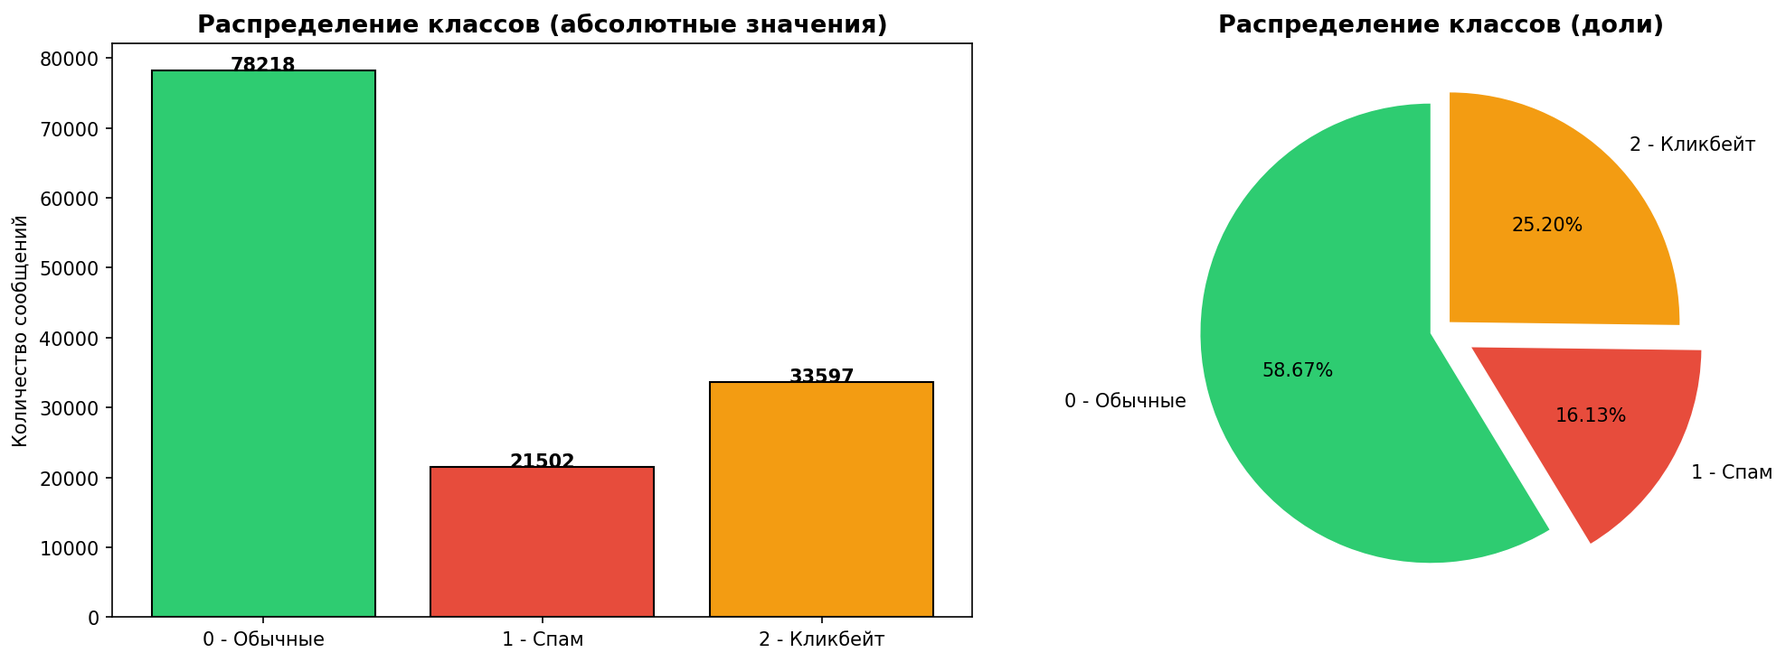
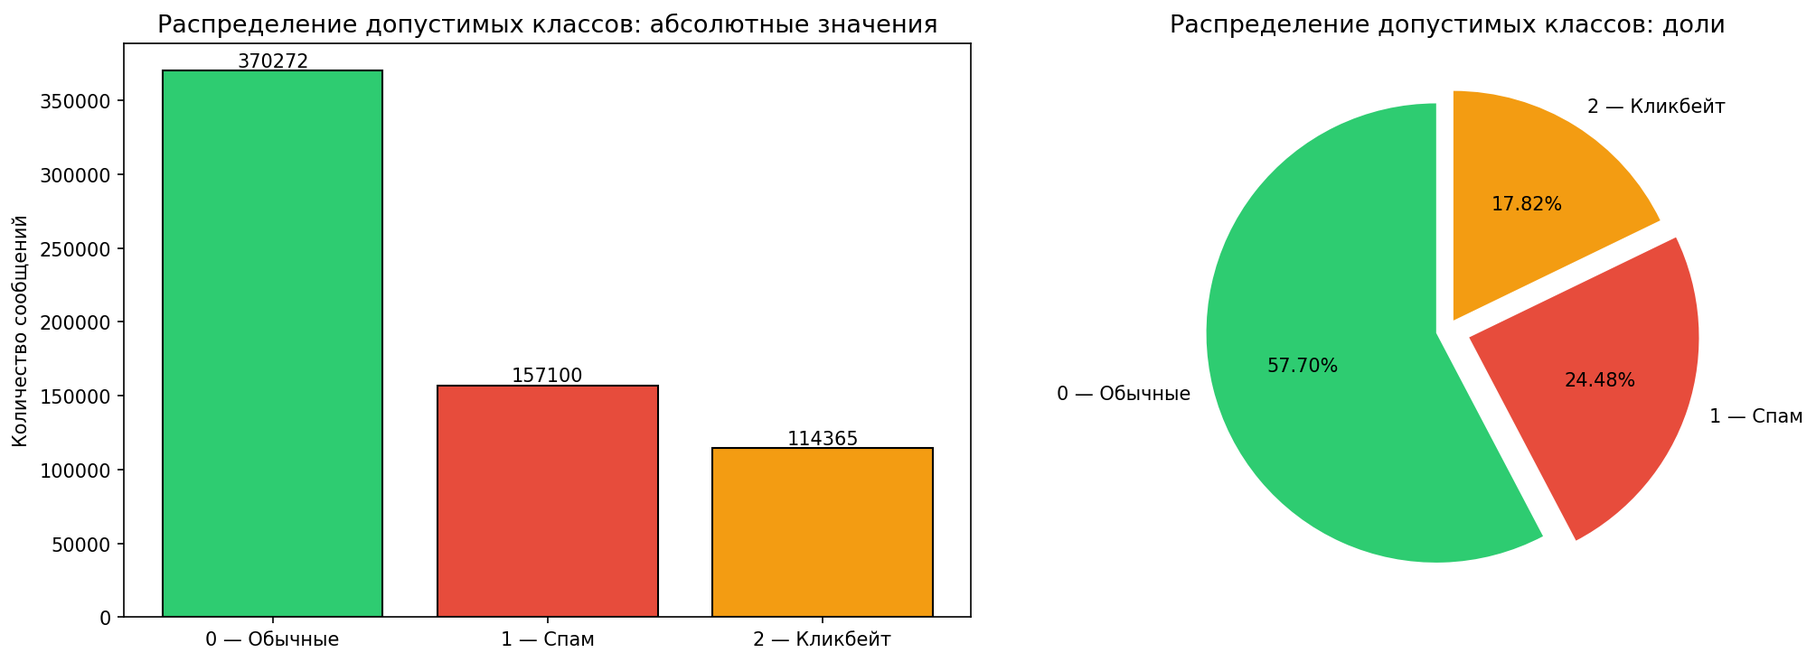
Dataset description

diff --git a/Datasets/dataset_description.html b/Datasets/dataset_description.html
@@ -1,0 +1,229 @@
+<!doctype html><html lang='ru'><head><meta charset='utf-8'><meta name='viewport' content='width=device-width,initial-scale=1'><title>Техническое описание df.csv</title><style>
+    body { font: 16px/1.6 'Segoe UI', Arial, sans-serif; color: #202b36;
+           max-width: 1050px; margin: 40px auto; padding: 0 24px; }
+    h1 { font-size: 30px; line-height: 1.2; } h2 { margin-top: 32px; }
+    table { border-collapse: collapse; width: 100%; font-size: 14px; margin: 20px 0; }
+    td, th { padding: 8px 12px; border: 1px solid #ccd4dc; vertical-align: top; }
+    th { background: #edf2f7; text-align: left; }
+    tr:nth-child(even) { background: #fafbfc; }
+    code { font-size: 0.9em; overflow-wrap: anywhere; }
+    pre { padding: 16px; background: #edf2f7; white-space: pre-wrap; }
+    img { max-width: 100%; height: auto; }
+    @media print { body { margin: 0; padding: 0; font-size: 11pt; }
+      h1 { font-size: 20pt; } h2 { font-size: 15pt; } h3 { font-size: 12pt; }
+      table { font-size: 9pt; } tr, img { break-inside: avoid; }
+      h1, h2, h3 { break-after: avoid; } }
+    @page { size: A4; margin: 18mm; }
+    </style></head><body><h1>Техническое описание датасета df.csv</h1>
+<p><strong>Кейс:</strong> «Классификация спама и кликбейта: распознавание спам-сообщений и кликбейт-заголовков».
+<p><strong>Команда:</strong> «Великолепная четверка».<br />  
+<strong>Датасет:</strong> <code> <a href="https://github.com/pudoff/SpamClickbaitClassification/tree/main/Datasets/df.csv">Datasets/df.csv</a></code>.</p>
+<h2>1. Назначение и происхождение данных</h2>
+<p>По заданию из необходимо разработать Telegram-бота, классифицирующие входящие голосовые сообщения в три категории: обычное сообщение, спам и кликбейт. Предусмотрено использование TTS для создания синтетического аудио на основе текстовых примеров.</p>
+<p>Датасет <code>df.csv</code> представляет собой один объединённый файл, состоящий из 2 столбцов (текст, метка). Количество уникальных меток: 3 (0 - нормальный текст, 1 - спам, 2 - кликбейт). Он собран из восьми отдельных датасетов Kaggle (отдельные датасеты по кликбейту, отдельные по спаму), большинство из которых были англоязычными, и переведёны на русский язык. Представленный скрипт <code>TranslateScript.py</code> использует модель <code>Helsinki-NLP/opus-mt-en-ru</code>, пакетную обработку по 32 текста, ограничение входа и генерации до 512 токенов и поиск с четырьмя лучами (<code>num_beams=4</code>). Скрипт сохраняет исходный текст, перевод и метку, однако в итоговом <code>df.csv</code> оставлены только текст и целевая категория (метка).</p>
+
+<h2>2. Формат, структура и объём</h2>
+<p>Файл включает <strong>643 010 записи </strong>, включая заголовок. Размер файла — <strong>381,59 МБ </strong>.</p>
+<table>
+<thead>
+<tr>
+<th>Поле</th>
+<th>Тип после восстановления</th>
+<th>Назначение</th>
+</tr>
+</thead>
+<tbody>
+<tr>
+<td><code>text</code></td>
+<td>строка (<code>object</code> в pandas)</td>
+<td>Текст сообщения, заголовка либо более длинного материала; в основном русский перевод</td>
+</tr>
+<tr>
+<td><code>is_spam1_or_clickbait2</code></td>
+<td>целое число (<code>int64</code>)</td>
+<td>Целевая категория: <code>0</code> — обычное сообщение; <code>1</code> — спам; <code>2</code> — кликбейт</td>
+</tr>
+</tbody>
+</table>
+<p>CSV-файл датасета неоднороден: <strong>638 540</strong> восстановленных записей используют запятую перед меткой, <strong>3 198</strong> — точку с запятой. Стандартный <code>pd.read_csv</code> завершается ошибкой разбора около строки 66 123. Для первичного анализа применено явное восстановление: из каждой физической строки извлекается целочисленная метка после последнего подходящего разделителя <code>,</code> или <code>;</code>; парные внешние кавычки снимаются, удвоенные CSV-кавычки декодируются. Многострочные записи автоматически не склеиваются, отсутствующие категории не угадываются.</p>
+<table>
+<thead>
+<tr>
+<th>Структура записей датасета</th>
+<th style="text-align:right">Количество</th>
+</tr>
+</thead>
+<tbody>
+<tr>
+<td>Восстановленные пары «текст — целочисленная метка»</td>
+<td style="text-align:right">641 738</td>
+</tr>
+<tr>
+<td>Повторные заголовки внутри файла</td>
+<td style="text-align:right">4</td>
+</tr>
+<tr>
+<td>Строки без целочисленной метки</td>
+<td style="text-align:right">1 266</td>
+</tr>
+<tr>
+<td>Пустые физические строки</td>
+<td style="text-align:right">1</td>
+</tr>
+<tr>
+<td>Записи с меткой вне категорий <code>0/1/2</code></td>
+<td style="text-align:right">1</td>
+</tr>
+<tr>
+<td>Записи с допустимой целевой меткой</td>
+<td style="text-align:right">641 737</td>
+</tr>
+</tbody>
+</table>
+<p>Таким образом, <strong>1 270 непустых строк не включены в восстановленную таблицу</strong> и ещё одна запись не соответствует таксономии проекта. Это число относится к физическим строкам, а не к доказанному количеству утраченных исходных сообщений: повреждённые фрагменты могут быть частями записей.</p>
+<p>Восстановленная таблица имеет форму <strong>641 738 × 2</strong>. Пропуски <code>NaN</code> в её столбцах не обнаружены, однако имеются <strong>два пустых текста</strong>. Отсутствие <code>NaN</code> не означает отсутствия повреждений в исходном CSV. </p>
+<h2>3. Распределение классов и характеристики текстов</h2>
+<p>Доли ниже вычислены по <strong>641 737</strong> записям с допустимыми метками, до удаления повторов и конфликтов.</p>
+<table>
+<thead>
+<tr>
+<th>Класс</th>
+<th style="text-align:right">Количество</th>
+<th style="text-align:right">Доля</th>
+<th style="text-align:right">Уникальные пары «текст — метка»</th>
+</tr>
+</thead>
+<tbody>
+<tr>
+<td><code>0</code> — обычные сообщения</td>
+<td style="text-align:right">370 272</td>
+<td style="text-align:right">57,70%</td>
+<td style="text-align:right">278 574</td>
+</tr>
+<tr>
+<td><code>1</code> — спам</td>
+<td style="text-align:right">157 100</td>
+<td style="text-align:right">24,48%</td>
+<td style="text-align:right">107 453</td>
+</tr>
+<tr>
+<td><code>2</code> — кликбейт</td>
+<td style="text-align:right">114 365</td>
+<td style="text-align:right">17,82%</td>
+<td style="text-align:right">70 589</td>
+</tr>
+<tr>
+<td><strong>Всего</strong></td>
+<td style="text-align:right"><strong>641 737</strong></td>
+<td style="text-align:right"><strong>100%</strong></td>
+<td style="text-align:right"><strong>456 616</strong></td>
+</tr>
+</tbody>
+</table>
+<p>Соотношение наибольшего и наименьшего классов составляет <strong>3,24 : 1</strong>. Присутствует дисбаланс в пользу обычных сообщений, но кликбейт не является экстремально редким классом.</p>
+<p>Средняя длина восстановленного текста составляет <strong>370,71 символа</strong>, медиана — <strong>113</strong>, 95-й процентиль — <strong>1 181</strong>, максимум — <strong>5 718</strong> символов. По числу фрагментов, разделённых пробелами, среднее составляет <strong>65,44</strong>, медиана — <strong>17</strong>, 95-й процентиль — <strong>250</strong>, максимум — <strong>1 380</strong>. Здесь «слово» — технический подсчёт непустых последовательностей, а не лингвистическая токенизация.</p>
+<table>
+<thead>
+<tr>
+<th>Класс</th>
+<th style="text-align:right">Средняя длина, символы</th>
+<th style="text-align:right">Медиана, символы</th>
+<th style="text-align:right">Медиана, слова</th>
+</tr>
+</thead>
+<tbody>
+<tr>
+<td>Обычные сообщения</td>
+<td style="text-align:right">360,94</td>
+<td style="text-align:right">94</td>
+<td style="text-align:right">14</td>
+</tr>
+<tr>
+<td>Спам</td>
+<td style="text-align:right">601,50</td>
+<td style="text-align:right">486</td>
+<td style="text-align:right">76</td>
+</tr>
+<tr>
+<td>Кликбейт</td>
+<td style="text-align:right">85,34</td>
+<td style="text-align:right">56</td>
+<td style="text-align:right">9</td>
+</tr>
+</tbody>
+</table>
+<p>Кликбейт преимущественно представлен короткими заголовками, спам — более длинными сообщениями. Это полезная характеристика корпуса, но также возможный источник смещения: модель может опираться на длину и особенности источника вместо содержания. Нужна отдельная оценка короткого спама, длинного кликбейта и обычных заголовков.</p>
+<p>Графики: <code>eda/class_distribution.png</code> и <code>eda/text_lengths.png</code>.</p>
+<p><img src="class_distribution.png" alt="Распределение допустимых классов" /></p>
+<p><img src="text_lengths.png" alt="Распределения длины текстов по классам" /></p>
+<h2>4. Качество данных и разметки</h2>
+<h3>Дубликаты и противоречия</h3>
+<p>Во всей восстановленной таблице обнаружено <strong>185 121 полный дубликат сверх первого экземпляра</strong>, или <strong>28,85% записей</strong>. После удаления полных повторов остаётся <strong>456 617</strong> уникальных пар, включая запись с ошибочной меткой. После исключения этой записи — <strong>456 616</strong> пар.</p>
+<p>Среди записей с допустимыми категориями <strong>524 одинаковых текста имеют разные метки</strong>; эти группы содержат <strong>5 289 строк</strong>, или <strong>1 059 уникальных пар «текст — метка»</strong>. Например, материал, начинающийся с «Кто должен заменить Бейонсе в #Coachella? Голосовать!», встречается с категориями <code>0</code> и <code>2</code>. При приведении регистра, пробелов и <code>ё/е</code> число конфликтующих групп увеличивается до <strong>527</strong>, число входящих в них строк — до <strong>5 300</strong>. Это прямой признак несогласованности разметки, но не количественная оценка всех её ошибок.</p>
+<p>Запись «Стоимость запасов была более 69 млрд. долл.» на физической строке <strong>365 055</strong> имеет метку <strong>2000</strong>. Она находится внутри повреждённого фрагмента, где вместо целевых меток встречается исходный английский текст. Это не четвёртый класс проекта; запись отправляется на проверку без автоматического назначения категории.</p>
+<h3>Содержимое и перевод</h3>
+<p>Автоматически выявлены следующие признаки; они могут пересекаться и не всегда означают ошибку:</p>
+<table>
+<thead>
+<tr>
+<th>Признак</th>
+<th style="text-align:right">Записей</th>
+<th style="text-align:right">Доля восстановленной таблицы</th>
+</tr>
+</thead>
+<tbody>
+<tr>
+<td>Не содержат кириллицы</td>
+<td style="text-align:right">19 606</td>
+<td style="text-align:right">3,06%</td>
+</tr>
+<tr>
+<td>Содержат латинские буквы</td>
+<td style="text-align:right">275 798</td>
+<td style="text-align:right">42,98%</td>
+</tr>
+<tr>
+<td>Содержат <code>http://</code>, <code>https://</code> или <code>www.</code></td>
+<td style="text-align:right">19 797</td>
+<td style="text-align:right">3,08%</td>
+</tr>
+<tr>
+<td>Содержат HTML-теги или HTML-сущности</td>
+<td style="text-align:right">15 943</td>
+<td style="text-align:right">2,48%</td>
+</tr>
+<tr>
+<td>Короче 10 символов</td>
+<td style="text-align:right">1 760</td>
+<td style="text-align:right">0,27%</td>
+</tr>
+<tr>
+<td>Длиннее 2 000 символов</td>
+<td style="text-align:right">6 869</td>
+<td style="text-align:right">1,07%</td>
+</tr>
+<tr>
+<td>Содержат более 512 слов по пробельному подсчёту</td>
+<td style="text-align:right">2 555</td>
+<td style="text-align:right">0,40%</td>
+</tr>
+<tr>
+<td>Содержат символ замены <code>�</code></td>
+<td style="text-align:right">3</td>
+<td style="text-align:right">менее 0,01%</td>
+</tr>
+</tbody>
+</table>
+<p>Отсутствие кириллицы не доказывает, что текст англоязычный: встречаются последовательности пунктуации и других символов. Латиница может отражать имена, адреса, сокращения, непереведённые части или ошибки. Среди наиболее частых текстов есть длинные последовательности точек и звёздочек; фраза «Я не знаю, что делать.» встречается <strong>116</strong> раз. В отдельных просмотренных записях наблюдаются неестественные словосочетания и повторяющиеся служебные слова. Требуется ручная проверка, насколько перевод сохраняет рекламный, мошеннический либо привлекающий внимание смысл исходника.</p>
+<p>Ограничение перевода до 512 токенов создаёт риск усечения длинных примеров. Число слов не равно числу токенов модели, поэтому 2 555 длинных текстов — ориентир для проверки, а не число доказанных усечений. 
+<p>Точность разметки, долю семантических ошибок перевод по представленным данным установить нельзя.</p>
+<h2>5. Применимость к нашей задаче</h2>
+<p>Датасет имеет достаточный объём и примеры всех трёх целевых категорий для построения и сравнения первоначальных текстовых моделей, например TF-IDF с логистической регрессией. После очистки и проверки меток тексты также могут использоваться для TTS-синтеза тренировочного аудио.</p>
+<p>Применимость ограничена неоднородностью источников, машинным переводом, большим количеством повторов, конфликтующими метками и различиями жанров. Корпус содержит заголовки, бытовые сообщения, письма и длинные материалы; он не является подтверждённой репрезентативной выборкой русскоязычных голосовых сообщений Telegram. Показатели на случайном текстовом тесте нельзя напрямую переносить на реальные аудиосообщения.</p>
+<p>До обучения необходимо исключить неизвестные категории и пустые тексты, устранить повторы, вынести конфликты на проверку и разделить данные так, чтобы варианты одного текста не попадали одновременно в обучение и тест. </p>
+<p>Проверочный запуск подготовки данных оставил <strong>442 780 примеров</strong>: <strong>271 916</strong> обычных сообщений, <strong>104 994</strong> спам-сообщения и <strong>65 870</strong> примеров кликбейта. Это результат конкретной консервативной очистки для базовой модели, а не новая ручная разметка. Стратифицированное разделение 80/20 создало <strong>354 224</strong> обучающих и <strong>88 556</strong> тестовых примеров; совпадающих очищенных текстов между ними — <strong>0</strong>.</p>
+<p>Для надёжной оценки требуется восстановить сведения об источниках и организовать тестирование по источникам или группам близких текстов. Основные метрики — <strong>macro F1, precision/recall/F1 каждого класса и матрица ошибок</strong>; weighted F1 и accuracy используются дополнительно. Исключение точных совпадений не устраняет утечку парафразов, общих шаблонов и повторов из разных источников.</p>
+<p>Для аудиосценария необходимо сформировать независимый тест реальных голосовых сообщений, проверить распознавание речи (ASR) и итоговую классификацию. TTS-версии одного текста, включая разные голоса, должны оставаться в одной части выборки. Синтетическая речь расширяет тренировочные примеры, но сама по себе не подтверждает устойчивость к шуму, разговорной речи и ошибкам распознавания.</p>
+<p><strong>Заключение:</strong> <code>df.csv</code> пригоден как исходный учебный датасет для экспериментов с трёхклассовой текстовой классификацией и последующим синтезом аудио. Использовать его как готовую качественно размеченную обучающую выборку без очистки и аудита нельзя. Главные выявленные проблемы — неоднородный формат CSV, около 28,85% повторных записей, конфликтующие метки и неоднородное качество переводов. Применимость к реальным голосовым сообщениям должна быть подтверждена отдельной оценкой.</p>
+
+</body></html>
